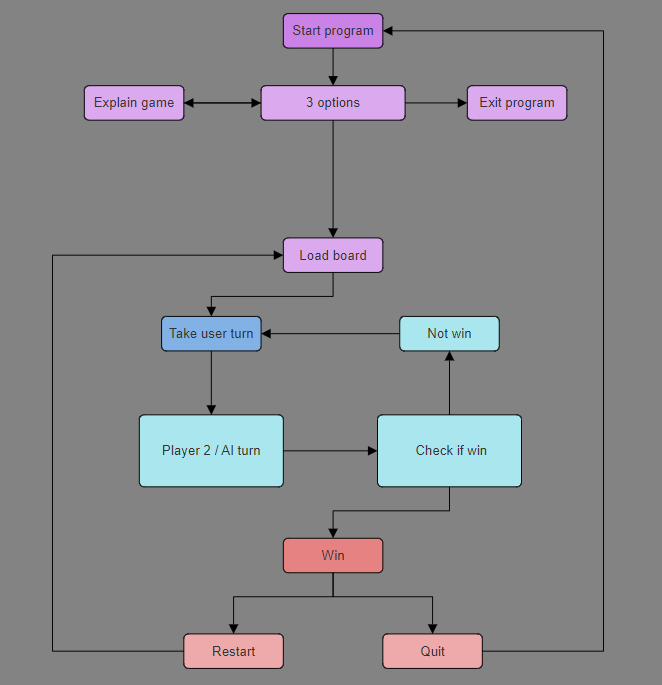
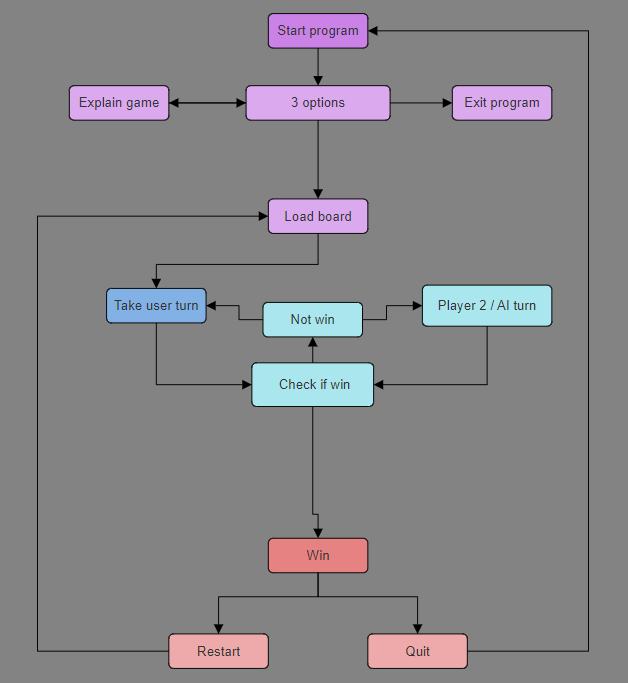
Docs: flowchart

Changed region(s): [[0.0605, 0.0, 0.9379, 0.9839], [0.0908, 0.123, 0.3025, 0.1845], [0.6959, 0.123, 0.8774, 0.1845]]

diff --git a/README.md b/README.md
@@ -74,7 +74,22 @@ The table and colored text is possible due to the rich package used in this proj
 
 ### Flow-Charts
 
+The flow-chart below will show the main steps of the program.
+
 ![Game FlowChart](/docs-pictures/pp3-flowchart.png)
+
+- Once the program starts the user will be presented with 3 options.
+- They may exit the program at this point.
+- If they select the game info option they will be provided with text related to 'Connect 4'
+- They will still have access to the 3 options at this stage.
+- Starting the game will load the board.
+- The player will take the first turn.
+- After which it will check for a win.
+- If not a win it will pass to the computer to take a turn.
+- This loop will repeat till one player wins (making a connection).
+- Once a win occurs the player will have the option to Restart or Quit.
+- Choosing Restart will load a new board.
+- Choosing Quit will return the player to the start screen.
 
 ## Features
 
